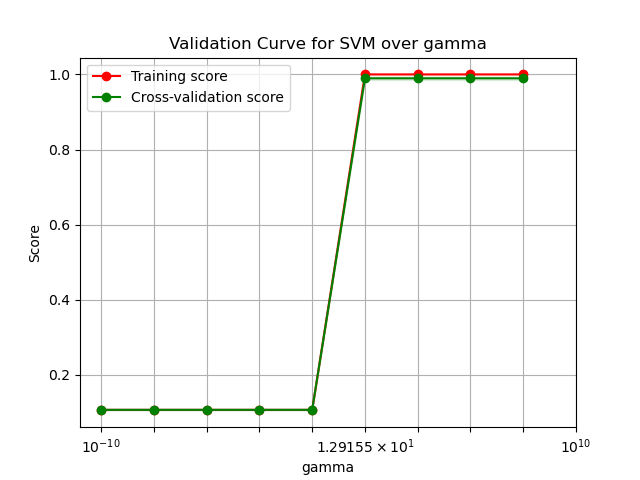
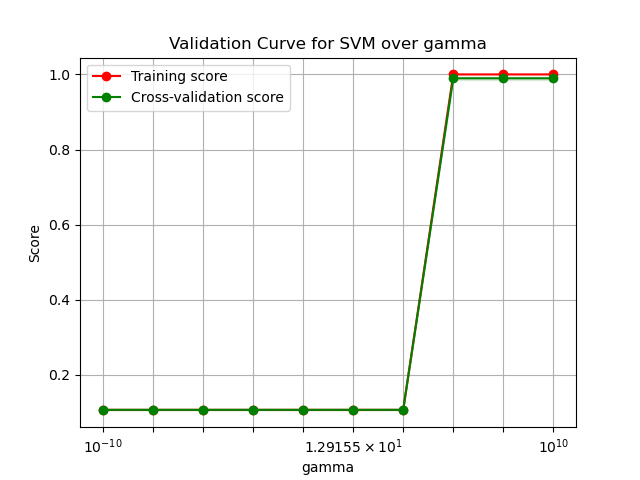
pr1 update figures and corrected code

diff --git a/pr1/SVM.py b/pr1/SVM.py
@@ -32,8 +32,8 @@ class SupportVectorMachine(object):
         best_scores = []
         for k in ['poly', 'rbf', 'sigmoid']:
             clf_svm = SVC(kernel=k, random_state=42)
-            param_grid = {'C': np.logspace(-10, 5, 10),
-                        'gamma': np.logspace(-10, 5, 10)}
+            param_grid = {'C': np.logspace(-10, 10, 10),
+                        'gamma': np.logspace(-10, 10, 10)}
             clf_svm.fit(X_train,y_train)
             train_scores.append(clf_svm.score(X_train, y_train))            
 
@@ -57,9 +57,9 @@ class SupportVectorMachine(object):
             best_scores.append(best_svm.score(X_train, y_train))           
             self.clf.append(best_svm)
 
-        print("SVM Accuracy on the Train setwith linear, poly, rbf and sigmoid: ", train_scores)
-        print("SVM Training time with linear, poly, rbf and sigmoid:", train_time)
-        print("Best SVM Accuracy on the Train set with linear, poly, rbf and sigmoid: ", best_scores)
+        print("SVM Accuracy on the Train setwith poly, rbf and sigmoid: ", train_scores)
+        print("SVM Training time with poly, rbf and sigmoid:", train_time)
+        print("Best SVM Accuracy on the Train set with poly, rbf and sigmoid: ", best_scores)
 
     def query(self, X_test, y_test):
         res = []
@@ -67,4 +67,4 @@ class SupportVectorMachine(object):
             y_pred = clf.predict(X_test)
             test_score = accuracy_score(y_test, y_pred)
             res.append(test_score)
-        print("SVM Accuracy on the Test set with linear, poly, rbf and sigmoid: ", res)
+        print("SVM Accuracy on the Test set with poly, rbf and sigmoid: ", res)

diff --git a/pr1/NN.py b/pr1/NN.py
@@ -23,9 +23,8 @@ class NeuralNetwork(object):
         """
         build and train decision tree
         """
-        clf_nn = MLPClassifier(random_state=42, max_iter=500)
-        param_grid = {'hidden_layer_sizes': np.arange(1, 100, 10),
-                      'activation': ['identity', 'logistic', 'tanh', 'relu']}
+        clf_nn = MLPClassifier(random_state=42, max_iter=2000)
+        param_grid = {'hidden_layer_sizes': np.arange(1, 100, 10)}
         clf_nn.fit(X_train,y_train)
         print("NN Accuracy on the Train set: ", clf_nn.score(X_train, y_train))
 

diff --git a/pr1/experiment1.py b/pr1/experiment1.py
@@ -41,6 +41,11 @@ def main():
     digits = datasets.load_digits()
 
     x_train, x_test, y_train, y_test = train_test_split(digits.data, digits.target, test_size=0.20, random_state=42)
+    x_train = x_train / 255.0
+    x_test = x_test / 255.0
     print('MNIST dataset loaded.')
     
     run_experiment1(dt_flag=True, svm_flag=True, boost_flag=True, knn_flag=True, nn_flag=True)
+
+if __name__ == '__main__':
+    main()
